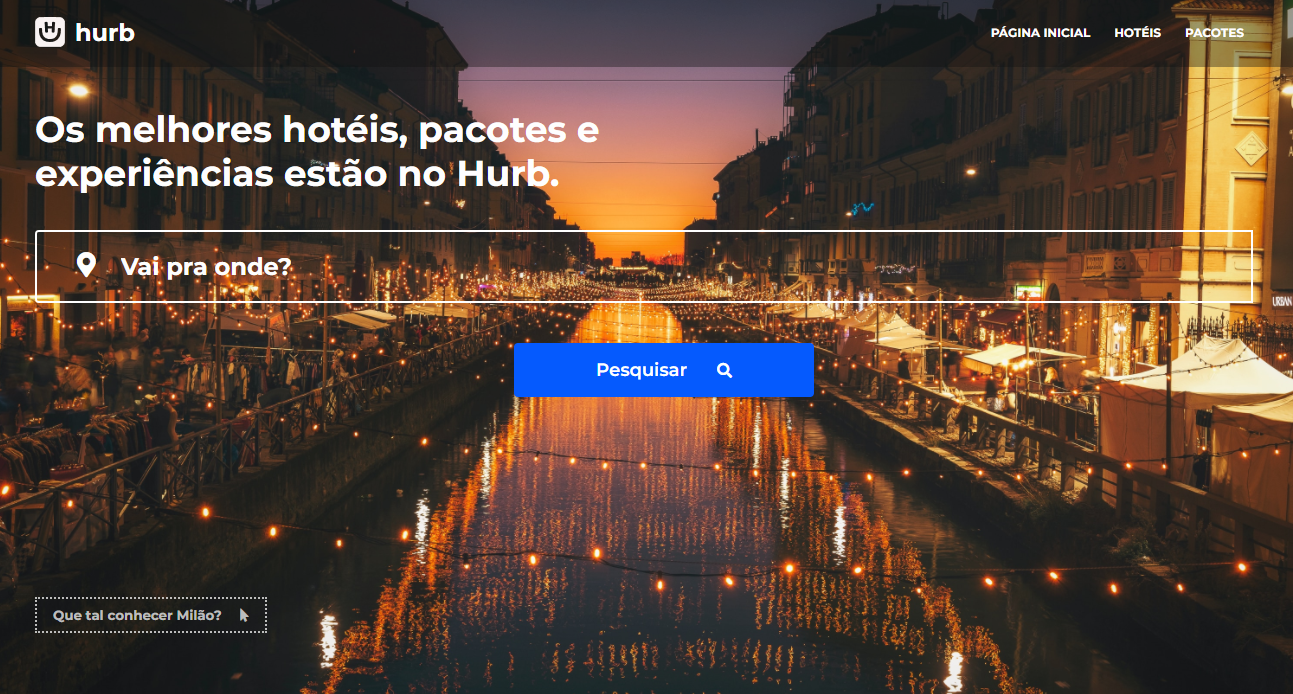
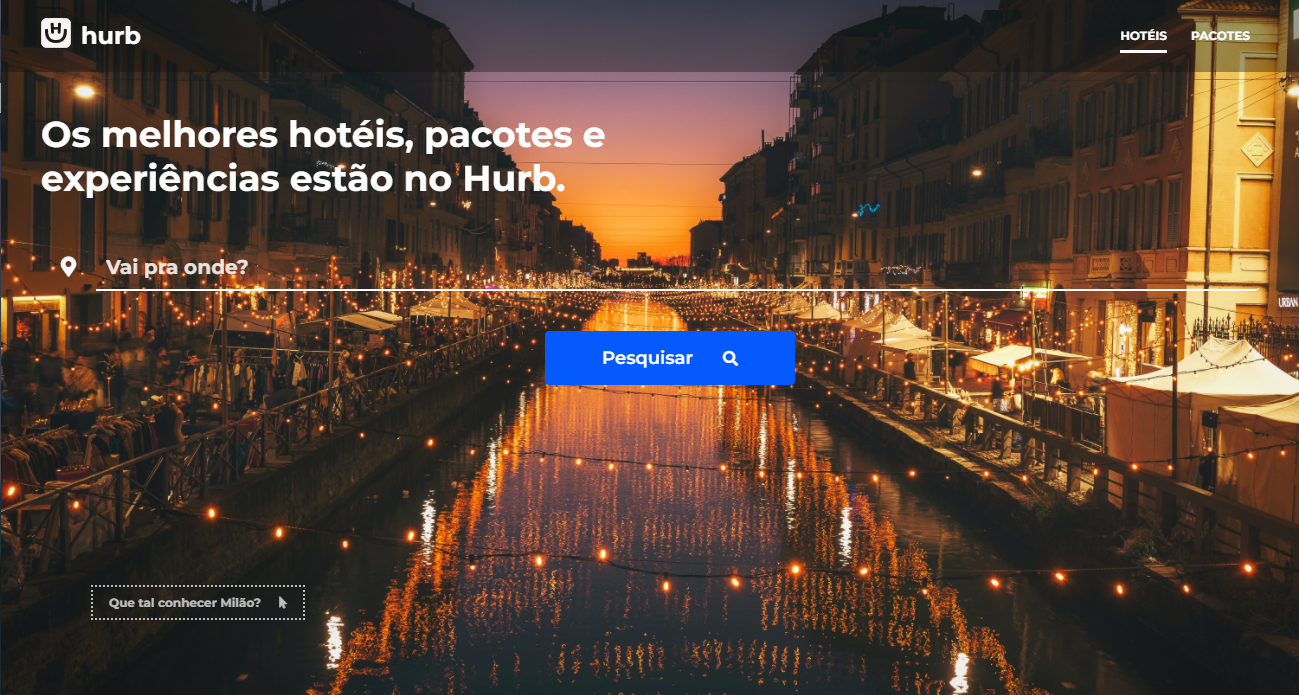
created a new function for the search of hotels in the hotels page, added new images of the project screenshots

diff --git a/src/app/components/form/form.component.html b/src/app/components/form/form.component.html
@@ -9,7 +9,7 @@
       <section class="header-form ">
         <i class="fas fa-map-marker-alt"></i>
         <input 
-        id="searchInput"
+        id="input-home"
         (change)="getLocation($event)"
         (keyup.enter)="getHotels()"
         class="search-input" 
@@ -31,17 +31,17 @@
 </div>
 
 <div class="container-hotel" id="hotel-page">
-  <app-header (sendTypeSearch)="onSendTypeSearch($event)"></app-header>
+  <app-header (sendTypeSearchHotel)="onSendTypeSearchHotel($event)"></app-header>
   <div id="form-hotel-page" class="search-form">
     <div class="header-form ">
       <i class="fas fa-map-marker-alt"></i>
       <input 
-      (change)="getLocation($event)"
+      id="input-hotel"
+      (change)="getLocationHotelPage($event)"
       (keyup.enter)="getHotels()"
       class="search-input" 
       placeholder="Vai pra onde?"
       #campoInput
-      (load)="clearInput()"
       >
     </div>
 
@@ -191,7 +191,7 @@
     <div *ngIf="hotels" class="ordenation" id="ordenation">
       <div class="slider" id="slider">
         <p class="rangeText">Valor até: R$ {{ this.value ? this.value : '1500' }}</p>
-        <input type="range" id="range" [min]="minPrice" [max]="1500" [value]="1500" (click)="limitedByPrice()" (change)="rangeValue()"> 
+        <input type="range" id="range" [min]="minPrice" [max]="1500" [value]="this.value" (click)="limitedByPrice()" (change)="rangeValue()"> 
       </div>
     </div>
     <div class="hotel-list">

diff --git a/src/app/components/form/form.component.ts b/src/app/components/form/form.component.ts
@@ -42,17 +42,23 @@ export class FormComponent implements OnInit {
       this.location = value;
     }
 
-    this.location = (<HTMLInputElement>document.querySelector('.search-input')).value;
+    this.location = (<HTMLInputElement>document.getElementById('input-home')).value;
   }
 
-  clearInput() {
-    const input = (<HTMLInputElement>document.querySelector('.search-input'));
-    
-    input.value=''
+  getLocationHotelPage(evento: KeyboardEvent, value: string) {
+    if(value !== null) {
+      this.location = value;
+    }
+
+    this.location = (<HTMLInputElement>document.getElementById('input-hotel')).value;
   }
 
   onSendTypeSearch(event) {
     this.typeSearchOption = event;
+  }
+
+  onSendTypeSearchHotel(event) {
+    this.typeSearchOptionHotel = event;
   }
 
   getHotels(page = 1, typeSearchOption, order: string, limited: string, quantityStars: Array<any>) {
